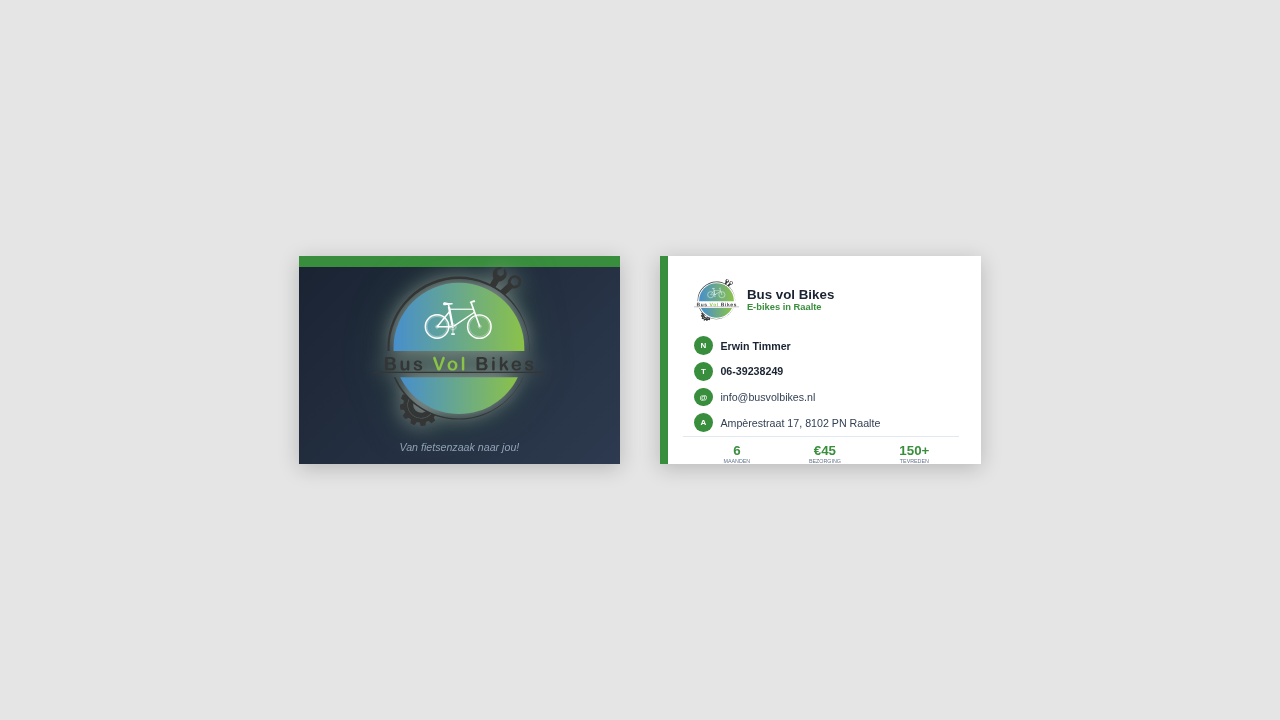
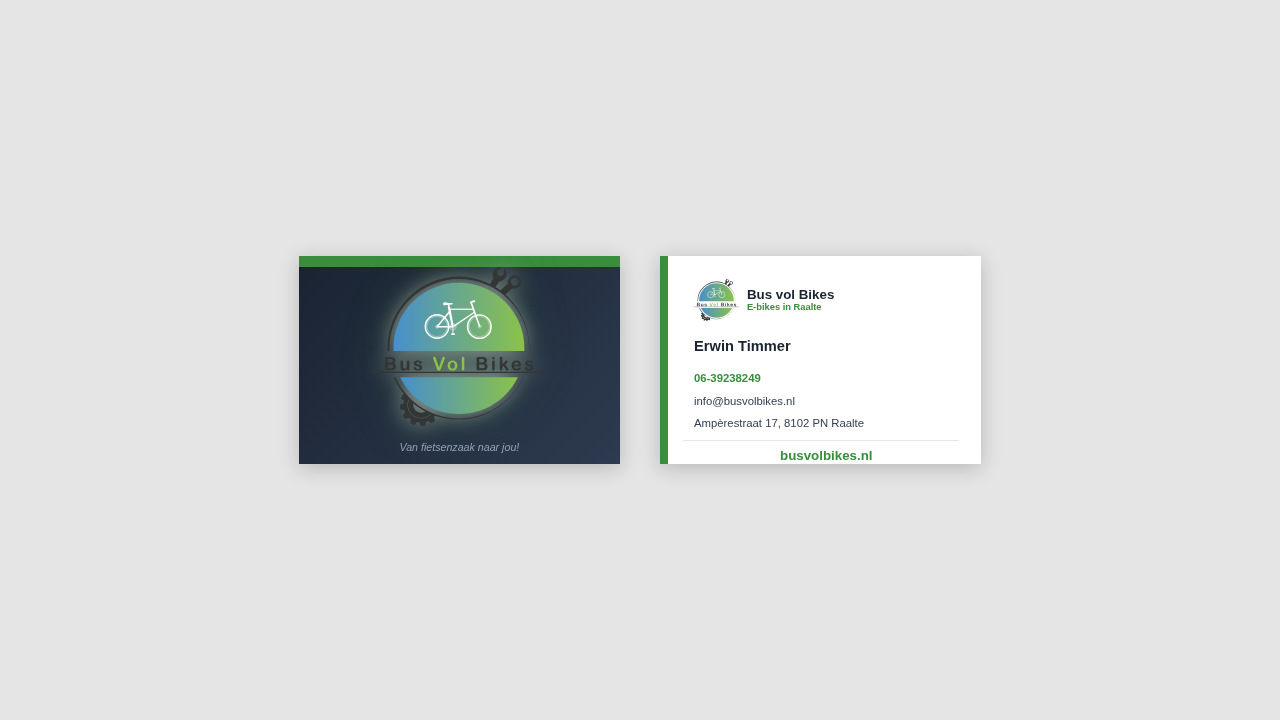
Visitekaartje: groene bolletjes en USP's verwijderd, website onderin

Changed region(s): [[0.5312, 0.4583, 0.75, 0.6417]]

diff --git a/visitekaartje.html b/visitekaartje.html
@@ -143,60 +143,40 @@
             padding-left: 3mm;
         }
         
-        .contact-row {
-            display: flex;
-            align-items: center;
-            gap: 2mm;
-        }
-        
-        .contact-icon {
-            width: 5mm;
-            height: 5mm;
-            background: #388e3c;
-            border-radius: 50%;
-            display: flex;
-            align-items: center;
-            justify-content: center;
-            color: white;
-            font-size: 6pt;
-            font-weight: bold;
-            flex-shrink: 0;
-        }
-        
         .contact-text {
-            font-size: 8pt;
+            font-size: 8.5pt;
             color: #334155;
+            line-height: 1.4;
         }
         
-        .contact-text strong {
+        .contact-text.name {
+            font-size: 11pt;
             color: #1a2332;
+            margin-bottom: 2mm;
         }
         
-        /* USP footer */
-        .usp-footer {
-            display: flex;
-            justify-content: space-around;
+        .contact-text.name strong {
+            font-weight: 700;
+        }
+        
+        .contact-text.phone {
+            font-weight: 600;
+            color: #388e3c;
+        }
+        
+        /* Website footer */
+        .website-footer {
+            text-align: center;
             padding-top: 2mm;
             border-top: 0.5px solid #e2e8f0;
-            margin-top: 1mm;
+            margin-top: 2mm;
             padding-left: 3mm;
         }
 
-        .usp-item {
-            text-align: center;
-        }
-
-        .usp-number {
+        .website-url {
             font-size: 10pt;
-            font-weight: 800;
+            font-weight: 700;
             color: #388e3c;
-            line-height: 1;
-        }
-
-        .usp-label {
-            font-size: 4pt;
-            color: #64748b;
-            text-transform: uppercase;
         }
         
         /* Print instellingen */
@@ -243,48 +223,26 @@
         </div>
         
         <div class="contact-info">
-            <div class="contact-row">
-                <div class="contact-icon">N</div>
-                <div class="contact-text">
-                    <strong>Erwin Timmer</strong>
-                </div>
+            <div class="contact-text name">
+                <strong>Erwin Timmer</strong>
             </div>
             
-            <div class="contact-row">
-                <div class="contact-icon">T</div>
-                <div class="contact-text">
-                    <strong>06-39238249</strong>
-                </div>
+            <div class="contact-text phone">
+                06-39238249
             </div>
             
-            <div class="contact-row">
-                <div class="contact-icon">@</div>
-                <div class="contact-text">
-                    info@busvolbikes.nl
-                </div>
+            <div class="contact-text email">
+                info@busvolbikes.nl
             </div>
             
-            <div class="contact-row">
-                <div class="contact-icon">A</div>
-                <div class="contact-text">
-                    Ampèrestraat 17, 8102 PN Raalte
-                </div>
+            <div class="contact-text address">
+                Ampèrestraat 17, 8102 PN Raalte
             </div>
         </div>
         
-        <div class="usp-footer">
-            <div class="usp-item">
-                <div class="usp-number">6</div>
-                <div class="usp-label">Maanden<br>garantie</div>
-            </div>
-            <div class="usp-item">
-                <div class="usp-number">€45</div>
-                <div class="usp-label">Bezorging<br>in NL</div>
-            </div>
-            <div class="usp-item">
-                <div class="usp-number">150+</div>
-                <div class="usp-label">Tevreden<br>klanten</div>
-            </div>
+        <!-- Website footer -->
+        <div class="website-footer">
+            <div class="website-url">busvolbikes.nl</div>
         </div>
     </div>
 </body>
